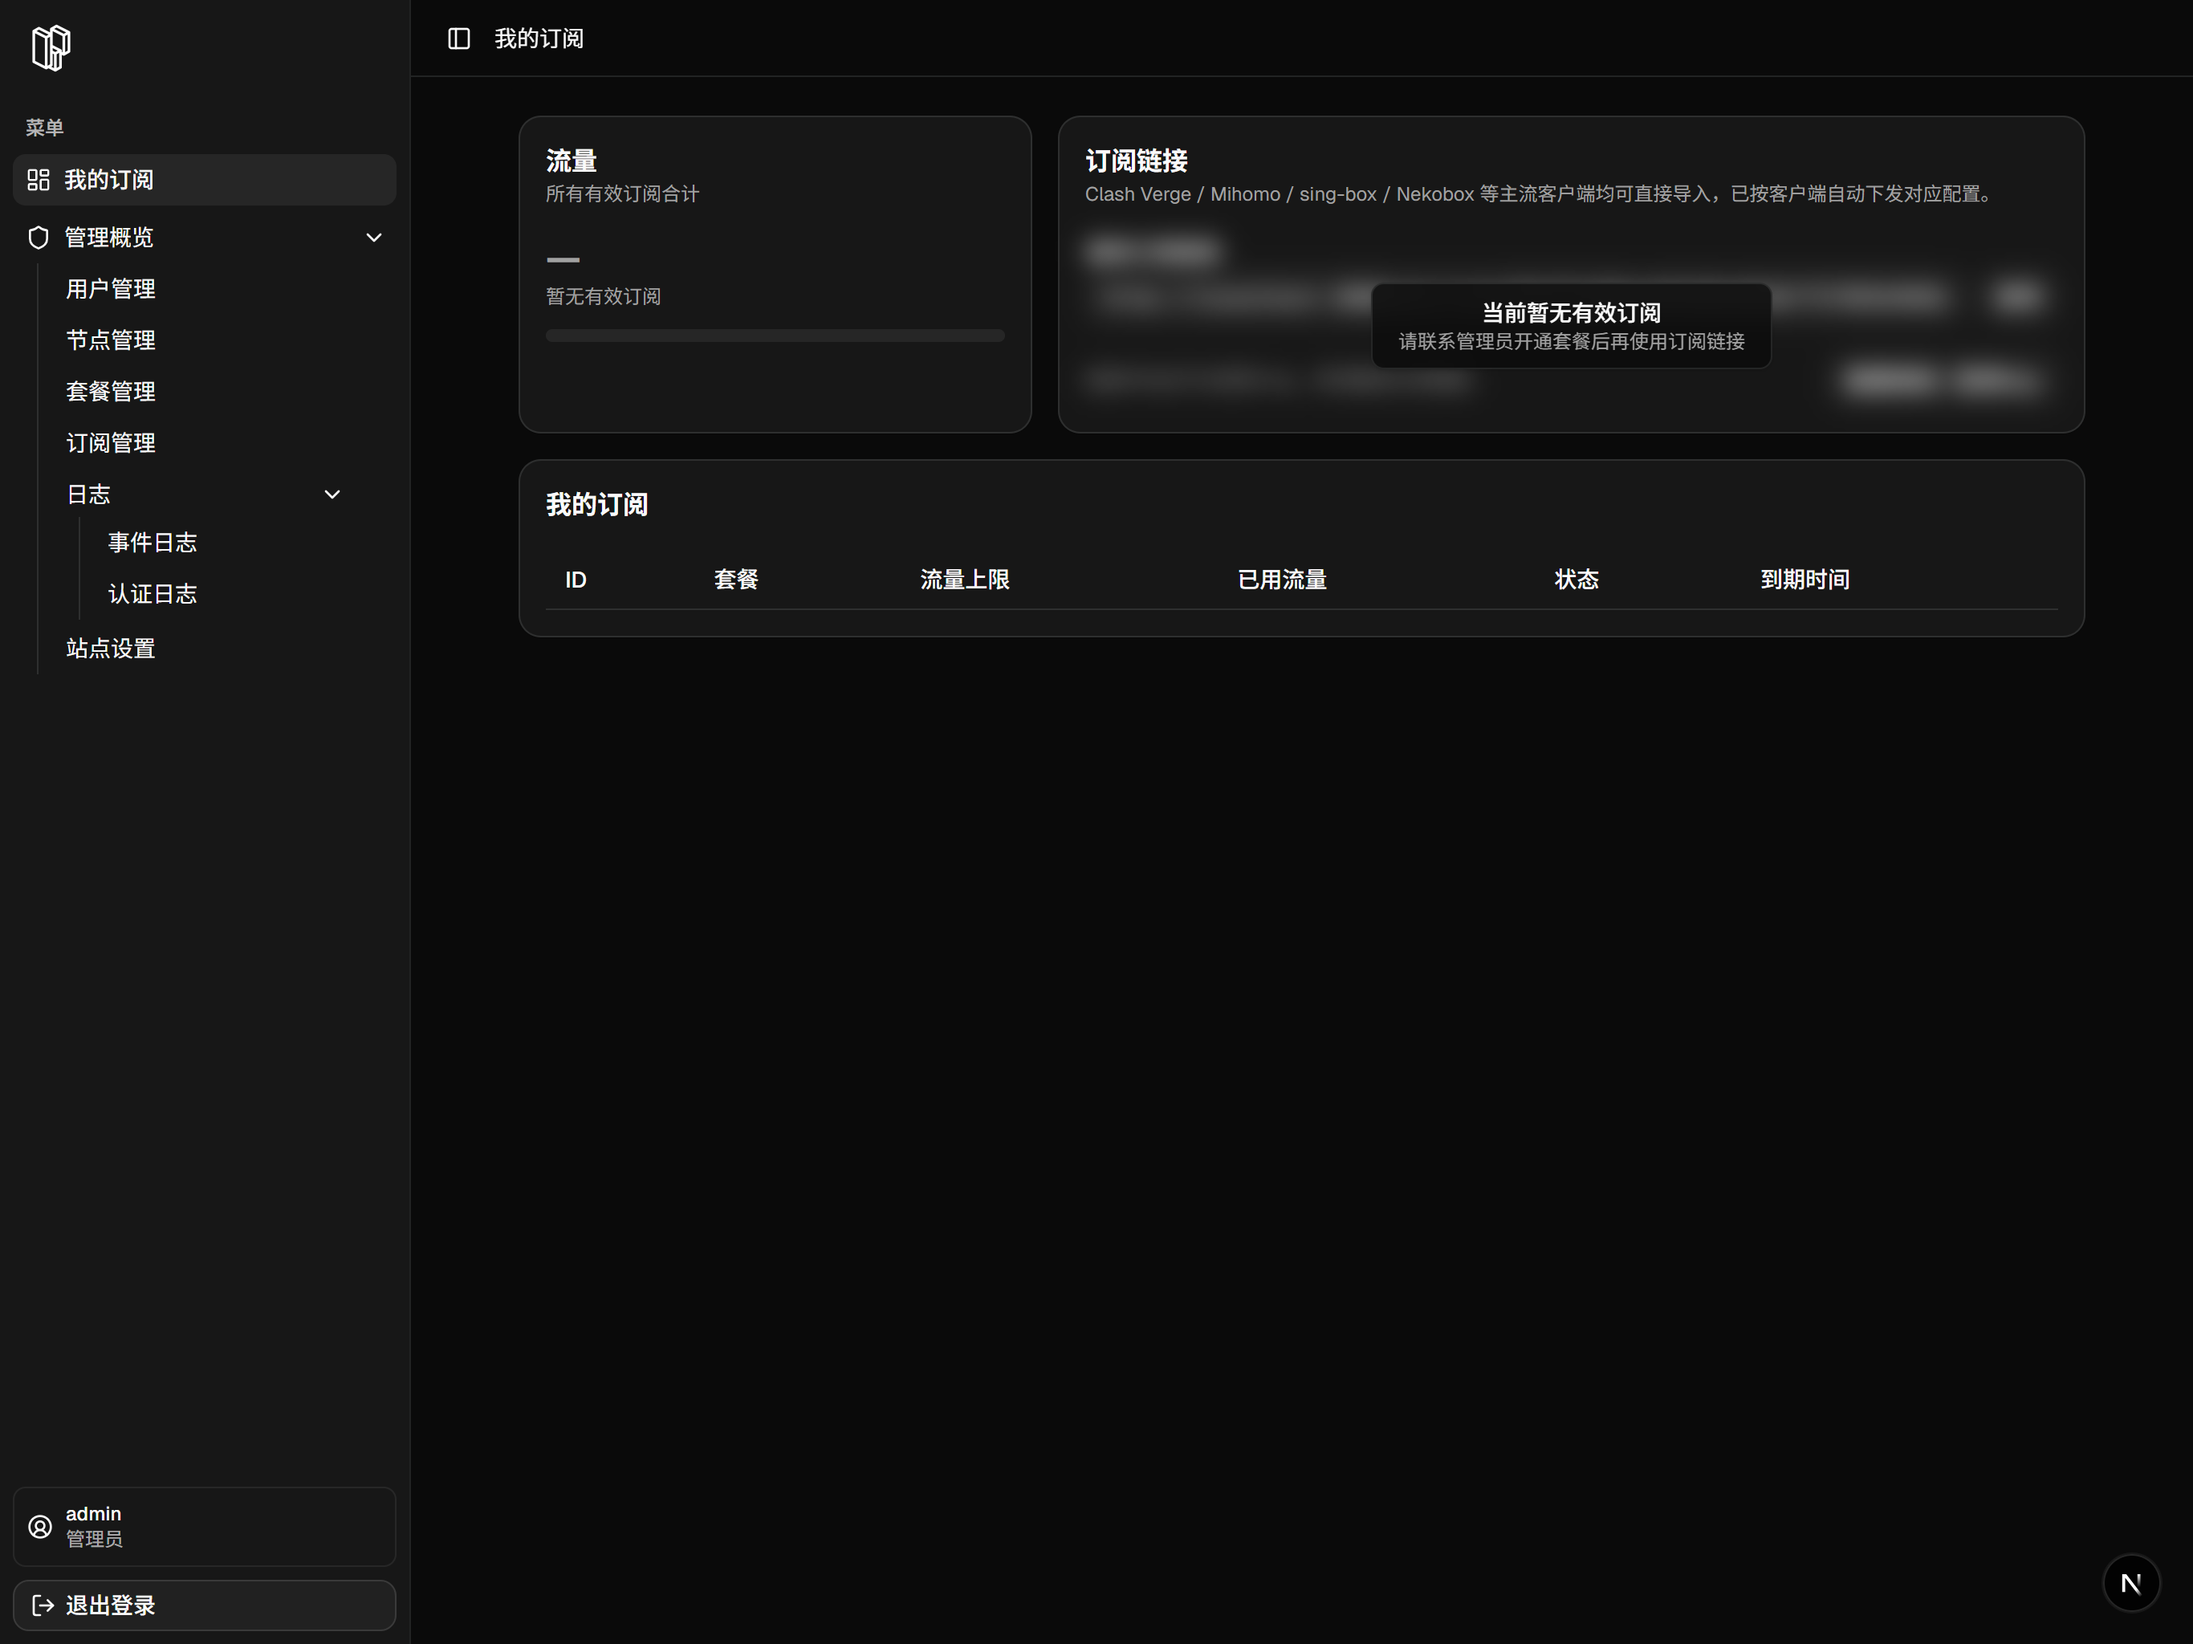
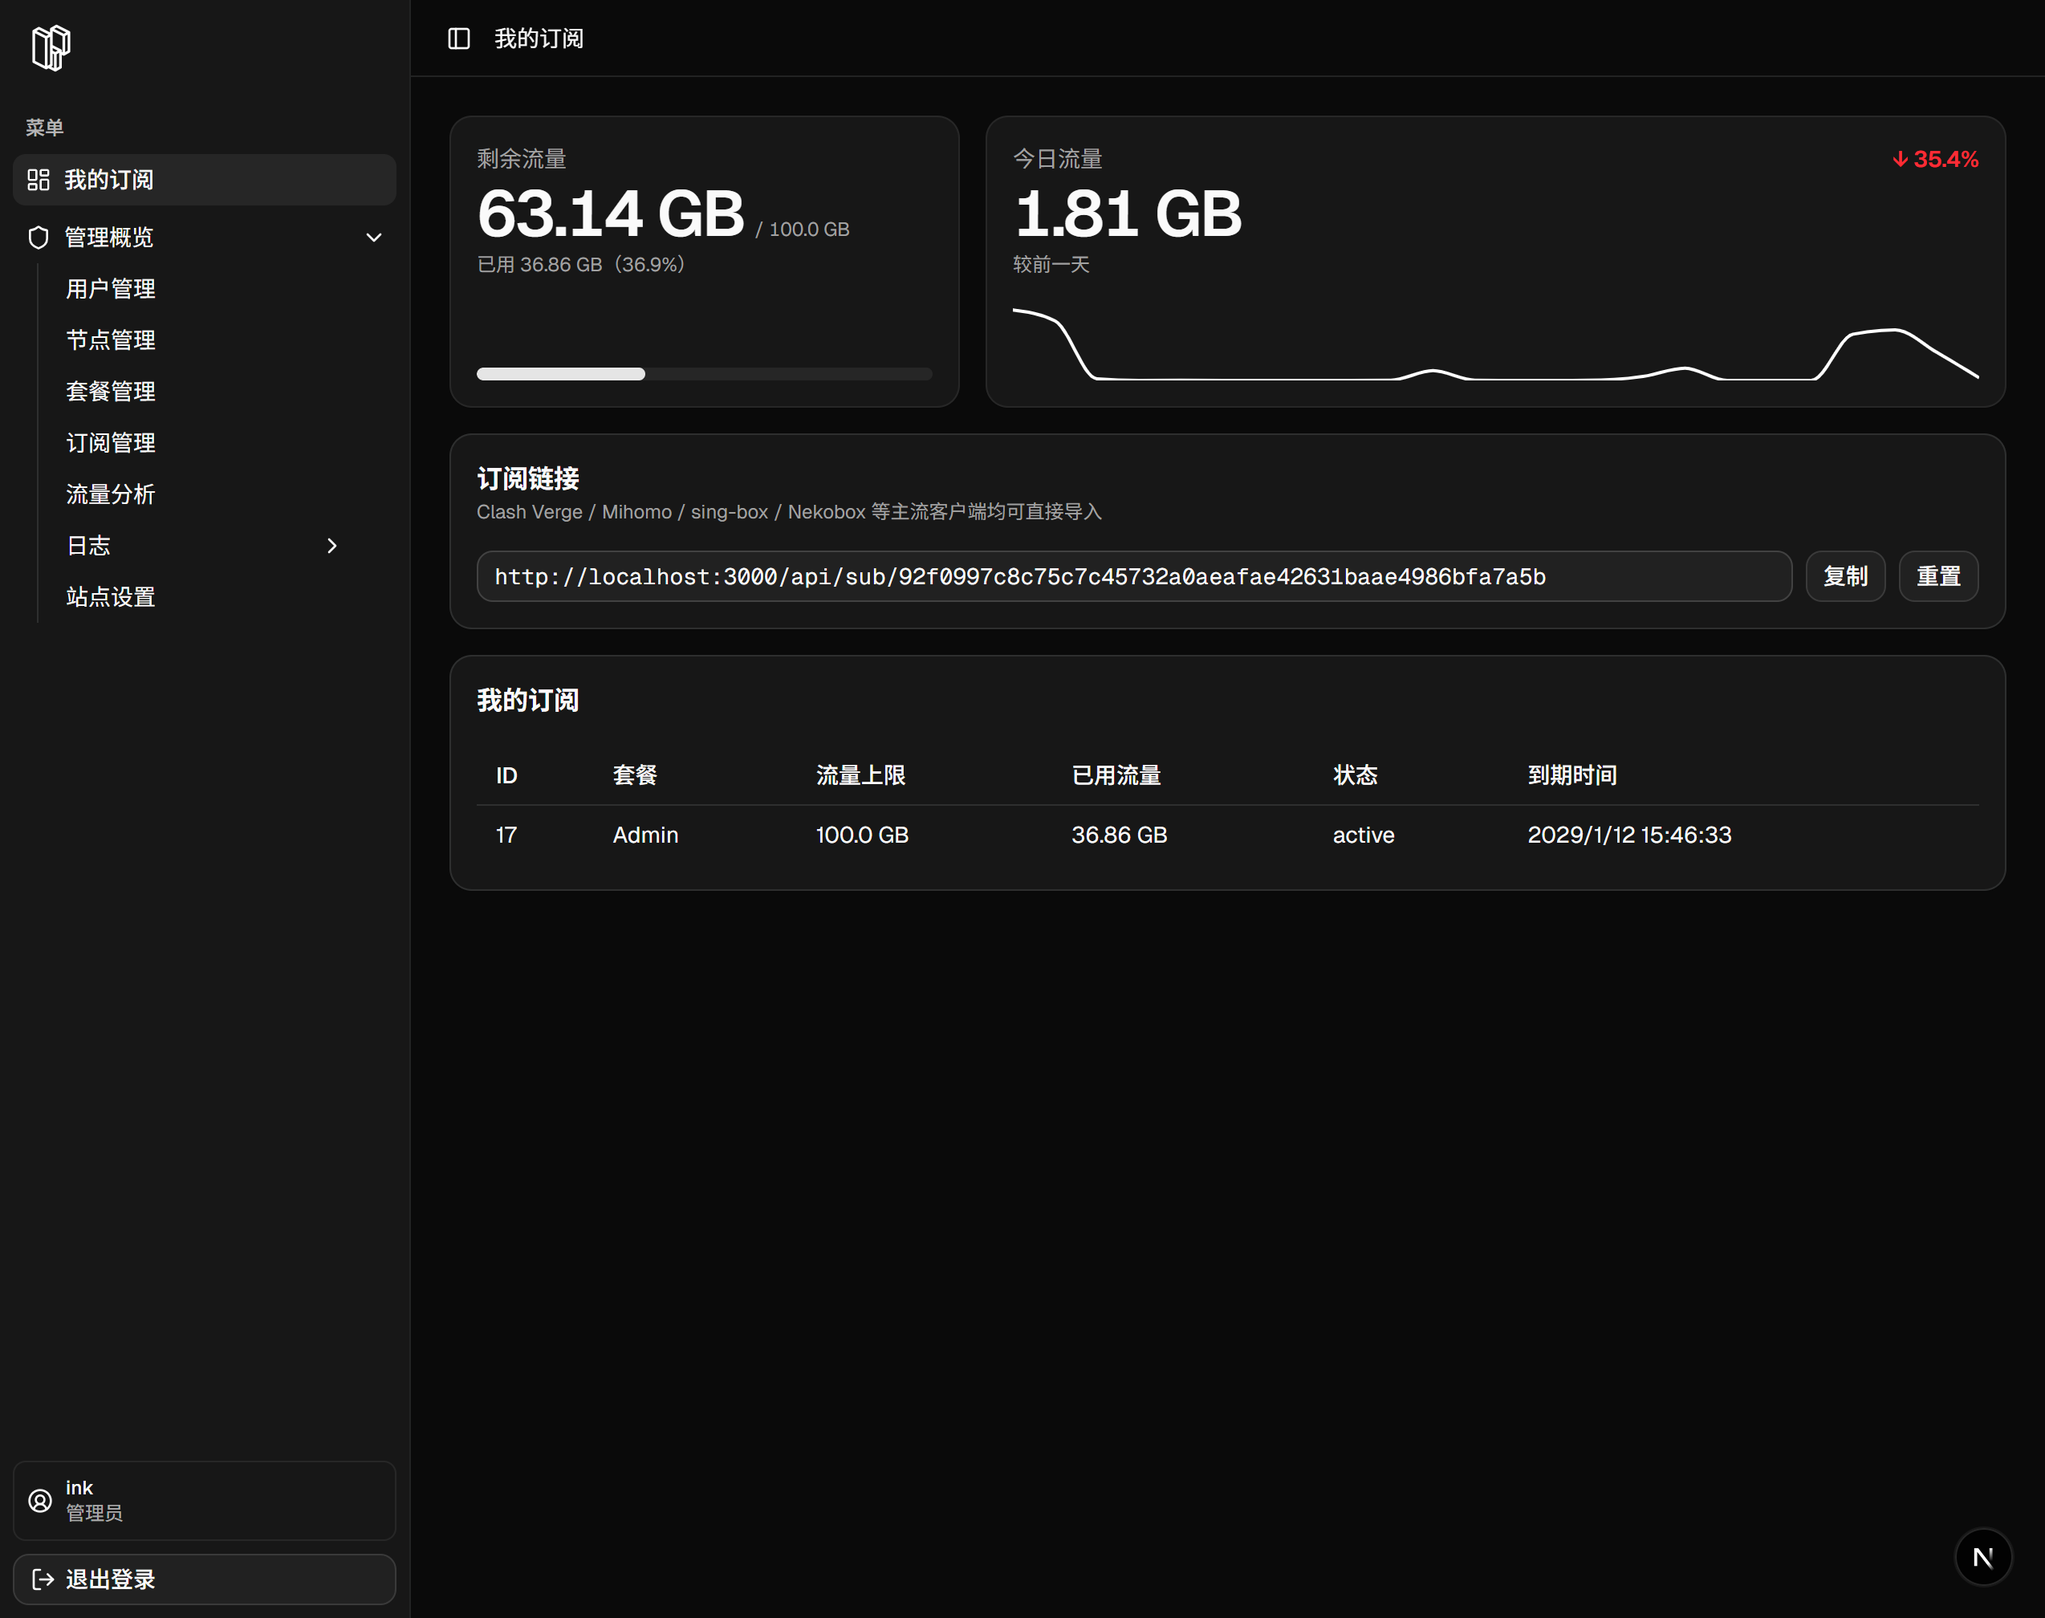
更新 readme 图片

diff --git a/app/(dashboard)/dashboard/page.tsx b/app/(dashboard)/dashboard/page.tsx
@@ -331,23 +331,21 @@ export default function DashboardPage() {
 
         {/* 今日流量卡 */}
         <Card className="overflow-hidden border-border/70">
-          <CardContent className="flex h-full flex-col p-4">
+          <CardContent className="relative flex h-full flex-col p-4">
             <p className="text-sm text-muted-foreground">今日流量</p>
             {hasValidSub ? (
               <>
-                <div className="mb-1 flex items-start justify-between gap-3">
-                  <p className="mt-1 text-[40px] leading-none font-semibold tracking-tight tabular-nums">
-                    {formatBytes(todayTotal)}
-                  </p>
-                  <p
-                    className={cn(
-                      "mt-1 text-sm font-semibold tabular-nums",
-                      trendClass
-                    )}
-                  >
-                    {trendText}
-                  </p>
-                </div>
+                <p
+                  className={cn(
+                    "absolute top-4 right-4 text-sm font-semibold tabular-nums",
+                    trendClass
+                  )}
+                >
+                  {trendText}
+                </p>
+                <p className="mt-1 mb-1 text-[40px] leading-none font-semibold tracking-tight tabular-nums">
+                  {formatBytes(todayTotal)}
+                </p>
                 <p className="mb-2 text-xs text-muted-foreground">较前一天</p>
                 <div className="mt-auto">
                   <ChartContainer
